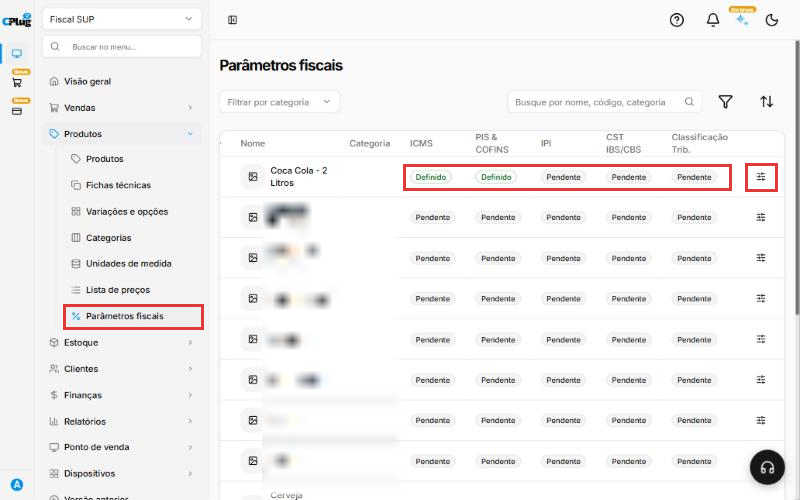
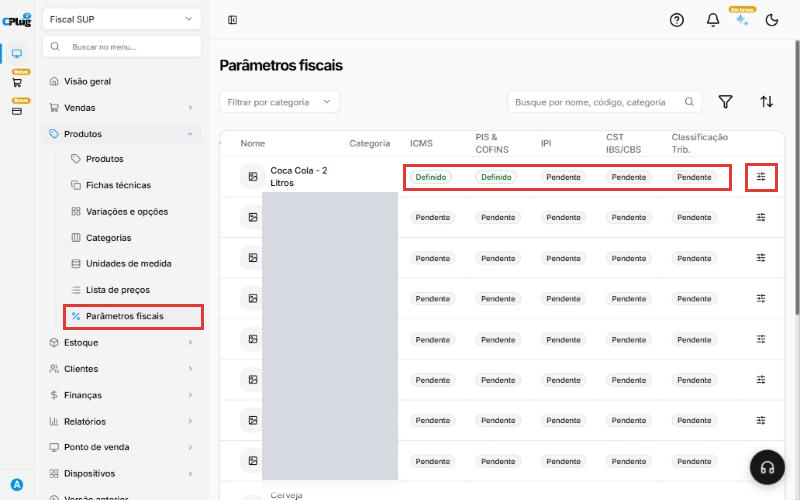
Manual 03.08: conceito da nota fiscal, grupos, CFOP da NFC-e, CEST e boas práticas; tarja sólida no print da lista

Changed region(s): [[0.3125, 0.36, 0.5, 0.96]]

diff --git a/docs/produtos/parametros-fiscais.md b/docs/produtos/parametros-fiscais.md
@@ -1,37 +1,71 @@
 ---
 title: Como configurar os dados fiscais de um produto
-description: Onde preencher NCM, origem, CEST, ICMS, PIS/COFINS e CFOP de cada produto para a nota fiscal sair sem erro.
+description: Entenda como a nota fiscal usa os dados do produto e veja onde preencher NCM, origem, CEST, ICMS, PIS/COFINS e CFOP para a nota sair sem erro.
 codigo: "03.08"
 modulo: Produtos
 tela: /dashboard/tax-settings
-atualizado: 2026-10-30
+atualizado: 2026-10-31
 ---
 
 # Como configurar os dados fiscais de um produto
 
-<div class="cplug-meta" markdown>:material-clock-outline: 5 minutos por produto · :material-format-list-numbered: 6 passos · :material-calendar-check: Atualizado em 30/10/2026</div>
+<div class="cplug-meta" markdown>:material-clock-outline: 15 minutos (depois, 2 minutos por produto) · :material-format-list-numbered: 6 passos · :material-calendar-check: Atualizado em 31/10/2026</div>
 
 Todo produto vendido com **nota fiscal** (o cupom do caixa, NFC-e, ou a NF-e) precisa dos dados fiscais preenchidos. Sem eles, o produto até aparece no caixa, mas a nota é **recusada pela Sefaz** ou nem chega a ser emitida.
+
+Esta é uma das principais causas de nota recusada. Vale a pena entender o conceito antes de preencher.
 
 !!! warning "Quem define os códigos fiscais é o seu contador"
     Este manual mostra **onde** e **como** preencher. **Quais** códigos usar (NCM, CFOP, situação do ICMS, PIS/COFINS) depende do produto, do estado e do regime da sua empresa, e quem decide é o contador.
 
     Antes de começar, peça ao contador uma lista com, para cada produto: **NCM**, **CEST** (se tiver), **Origem**, **ICMS**, **PIS/COFINS** e **CFOP**.
 
-## O que é cada campo
+## Entenda o conceito
+
+Quando você vende com nota, o sistema **monta a nota fiscal** juntando três fontes de informação:
+
+1. **Os dados da sua empresa:** CNPJ, endereço e regime tributário (Simples Nacional ou regime normal).
+2. **Os dados do produto:** o que ele é (NCM), de onde vem (Origem) e se tem substituição tributária (CEST). Ficam em **Informações fiscais**.
+3. **As regras de imposto:** como o ICMS, o PIS/COFINS e o IPI aparecem na nota, e o tipo de operação (CFOP). Ficam em **Configurações fiscais**.
+
+A Sefaz confere tudo isso. Se um código estiver faltando ou não combinar com o outro, a nota é recusada.
+
+### O que é um grupo fiscal
+
+O ICMS, o PIS/COFINS e o IPI não são preenchidos produto por produto. Você cria um **grupo fiscal**, que guarda a regra do imposto, e escolhe esse grupo em cada produto.
+
+Exemplo: o contador diz que quase todos os seus produtos usam o ICMS "102". Você cria **um** grupo chamado "Simples Nacional - 102" e escolhe esse grupo em todos esses produtos. Os refrigerantes, que têm substituição tributária, usam outro grupo, por exemplo "Bebidas com ST - 500".
+
+É como uma etiqueta: o grupo diz "este produto segue a regra X". Por isso, cuidado ao alterar um grupo que já está em uso: confirme com o contador antes.
+
+### O que é cada campo
 
 Os exemplos abaixo são só para você reconhecer os códigos. **Não copie sem confirmar com o contador.**
 
 | Campo | O que é, em palavras simples | Exemplo comum |
 | --- | --- | --- |
-| **NCM** | Código de 8 números que diz o que o produto é. É o mesmo em todo o Brasil. | Refrigerante: 2202.10.00 |
-| **CEST** | Código usado quando o produto tem substituição tributária (ST). Nem todo produto tem. | Depende do produto |
-| **Origem** | De onde vem a mercadoria. | 0 - Nacional |
-| **ICMS** | Como o ICMS aparece na nota. No Simples Nacional, os códigos têm 3 números (CSOSN); no regime normal, 2 números (CST). | 102 - Simples Nacional sem permissão de crédito |
-| **PIS & COFINS** | Como o PIS e a COFINS aparecem na nota. | Definido pelo contador |
-| **CFOP padrão** | O tipo de operação da venda. | 5102 - venda de mercadoria comprada de terceiros · 5405 - a mesma venda, com substituição tributária |
+| **NCM** | Código de 8 números que diz o que o produto é. É o mesmo em todo o Brasil. Define a tributação e a classificação do produto. | Refrigerante: 2202.10.00 |
+| **CEST** | Código que identifica produtos com substituição tributária (ST). Só abre depois de escolher o NCM, e a lista mostra os CESTs ligados àquele NCM. Nem todo produto tem. | Depende do produto |
+| **Origem** | De onde vem a mercadoria: nacional (códigos 0, 3, 4, 5 e 8) ou estrangeira (1, 2, 6 e 7). | 0 - Nacional |
+| **Peso líquido** e **Peso bruto** | O peso do produto, em quilos. | Preencha se o contador pedir |
+| **FCP** | Fundo de Combate à Pobreza: um adicional do ICMS cobrado em alguns estados e produtos. Há também o **FCP por ST** e o **FCP por ST retido**. | Em geral, 0,00 |
+| **ICMS** | Grupo que diz como o ICMS aparece na nota. No Simples Nacional, os códigos têm 3 números (CSOSN); no regime normal, 2 números (CST). | 102 - Simples Nacional sem permissão de crédito |
+| **Pis & Cofins** | Grupo que diz como o PIS e a COFINS aparecem na nota. | Definido pelo contador |
 | **IPI** | Imposto de indústria. A maioria do comércio e da alimentação não usa. | Em geral, fica vazio |
-| **CST do IBS/CBS** e **Classificação tributária** | Campos novos da reforma tributária. | Preencha quando o contador orientar |
+| **Cód. de Benef. Fiscal na UF** | Código de benefício fiscal do seu estado. Tem 8 caracteres: a sigla do estado e mais 6 (exemplo do sistema: SP123456). | Só se o contador informar |
+| **CFOP Padrão** | O tipo de operação da venda. | 5101 · 5102 · 5405 (veja abaixo) |
+| **CST do IBS/CBS** e **Cód. Classificação Tributária** | Campos novos da reforma tributária. A classificação só abre depois de escolher o CST, e as opções dependem dele. | Preencha quando o contador orientar |
+
+### Entendendo o CFOP de venda
+
+O CFOP diz **que tipo de venda** está acontecendo. Os três mais comuns no comércio e na alimentação:
+
+- **5101 - Venda de produção do estabelecimento:** o produto é **feito por você**, como o X-Burger preparado na cozinha.
+- **5102 - Venda de mercadoria adquirida de terceiros:** o produto é **comprado pronto e revendido**, como um chocolate.
+- **5405 - Venda de mercadoria com substituição tributária:** revenda de produto em que o imposto já foi recolhido antes, na compra, como acontece com muitos refrigerantes.
+
+!!! danger "Na NFC-e (cupom do caixa) só valem alguns CFOPs"
+    Segundo o próprio sistema, a NFC-e aceita apenas os CFOPs **5101, 5102, 5103, 5104, 5115, 5405, 5656, 5667 e 5933**. A lista do sistema também mostra o **5910** (bonificação, doação ou brinde) e o **5949** (outras saídas). Eles **não** servem para a NFC-e: use só com orientação do contador, em NF-e.
 
 Nos prints, o **quadrado vermelho** mostra onde você deve clicar ou digitar.
 
@@ -43,43 +77,50 @@ No menu do lado esquerdo, clique em **Produtos** e depois em **Parâmetros fisca
 
 A lista mostra todos os produtos e a situação de cada imposto: **Definido** (já configurado) ou **Pendente** (falta configurar). Todo produto com **Pendente** em ICMS, PIS & COFINS ou CFOP pode dar problema na nota.
 
+Para achar o que falta, clique no **funil** (Filtrar). Em **Grupos fiscais**, escolha **Pendentes** no ICMS, no Pis & Cofins ou no IPI e clique em **Aplicar filtros**. A lista mostra só os produtos que ainda precisam de atenção.
+
 ![Lista de parâmetros fiscais com as colunas Definido e Pendente e o ícone de ajustes destacados](../imagens/03.08/01-lista.png){ loading=lazy }
 
 ## Abra o produto
 
 No fim da linha do produto, clique no **ícone de ajustes** (o desenho de três tracinhos com bolinhas). Se não aparecer, role a tabela para a direita.
 
-Para encontrar um produto mais rápido, digite o nome na caixa de busca, no topo.
+Para encontrar um produto mais rápido, digite o nome na caixa de busca, no topo, ou escolha a categoria em **Filtrar por categoria**.
 
 ## Preencha as informações fiscais do produto
 
 Na parte **Informações fiscais**:
 
-- **NCM:** clique, digite o código ou parte do nome (ex.: "bebidas") e escolha a opção certa na lista.
+- **NCM:** clique, digite o código ou parte do nome (ex.: "bebidas" ou "2202") e escolha a opção certa na lista.
 - **Origem:** escolha de onde vem o produto. Na maioria dos casos, **0 - Nacional**.
-- **CEST:** preencha só se o contador informar.
+- **CEST:** preencha só se o contador informar. O campo fica cinza até você escolher o NCM; depois, mostra só os CESTs que combinam com aquele NCM.
 
 **Peso líquido**, **Peso bruto** e os campos de **FCP** só precisam ser preenchidos se o contador pedir.
 
 ![Informações fiscais com os campos NCM, Origem e CEST destacados](../imagens/03.08/02-informacoes.png){ loading=lazy }
 
+![NCM 22021000 escolhido e a lista do CEST aberta, com os códigos ligados a esse NCM, destacados](../imagens/03.08/08-cest-depois-do-ncm.png){ loading=lazy }
+
 ## Escolha os grupos fiscais da sua loja
 
-Role a tela até a parte **Configurações fiscais**. Ela tem uma seção com o **nome de cada loja (filial)**. Na seção da sua loja, escolha:
+Role a tela até a parte **Configurações fiscais** e escolha:
 
 - **ICMS:** o grupo de ICMS que o contador indicou.
 - **Pis & Cofins:** o grupo de PIS e COFINS.
-- **CFOP padrão:** o tipo de operação, por exemplo 5102 ou 5405.
+- **CFOP Padrão:** o tipo de operação, por exemplo 5101, 5102 ou 5405.
 - **IPI:** só se a sua empresa usar.
+- **Cód. de Benef. Fiscal na UF**, **CST do IBS/CBS** e **Cód. Classificação Tributária:** só com orientação do contador. A classificação fica cinza até você escolher o CST do IBS/CBS.
+
+Se a empresa tem **mais de uma loja (filial)**, a tela mostra uma seção com o **nome de cada loja**. Escolha os grupos na seção da sua loja.
 
 ![Seção da loja com ICMS, Pis & Cofins e CFOP padrão preenchidos e destacados](../imagens/03.08/03-grupos.png){ loading=lazy }
 
 !!! tip "Tem várias lojas com as mesmas regras?"
-    No topo de **Configurações fiscais** fica **Definir grupos fiscais para todas as unidades**. Ligue a chave ao lado do campo (por exemplo, ICMS) e escolha o grupo uma vez só: ele vale para todas as lojas. Desligue a chave quando uma loja precisar de um grupo diferente, por exemplo, uma loja em outro estado.
+    Com mais de uma loja, aparece no topo de **Configurações fiscais** o quadro **Definir grupos fiscais para todas as unidades**. Ligue a chave ao lado do campo (por exemplo, ICMS) e escolha o grupo uma vez só: ele vale para todas as lojas. Desligue a chave quando uma loja precisar de um grupo diferente, por exemplo, uma loja em outro estado.
 
 ## Se o grupo ainda não existe, crie
 
-Os **grupos** guardam as regras de um imposto. Você cria o grupo uma vez e usa em vários produtos.
+Se a sua empresa ainda não tem grupos, as listas de ICMS, Pis & Cofins e IPI aparecem **vazias**, com a mensagem "Nenhum resultado encontrado". É preciso criar os grupos uma primeira vez.
 
 1. Clique na caixa do imposto (por exemplo, **ICMS**). No topo da lista, clique em **+ Criar novo ICMS**.
 
@@ -99,7 +140,7 @@ O mesmo vale para **Pis & Cofins** e **IPI**: clique na caixa e use a opção **
 
 ## Clique em "Salvar"
 
-Depois de preencher tudo, clique no botão verde **Salvar**, no canto de baixo, à direita.
+Depois de preencher tudo, clique no botão verde **Salvar**, no canto de baixo, à direita. Para sair sem gravar, clique em **Descartar alterações**.
 
 </div>
 
@@ -110,7 +151,7 @@ Depois de preencher tudo, clique no botão verde **Salvar**, no canto de baixo, 
 
 Se vários produtos usam os mesmos códigos (por exemplo, todos os refrigerantes), não precisa abrir um por um:
 
-1. Na lista de **Parâmetros fiscais**, marque a caixinha do lado esquerdo de cada produto.
+1. Na lista de **Parâmetros fiscais**, marque a caixinha do lado esquerdo de cada produto. Dica: filtre pela categoria antes, e marque todos de uma vez.
 2. No rodapé, clique em **Edição em lote**.
 3. Em **Informações fiscais**, clique em **Adicionar campo**, escolha o campo (por exemplo, **NCM**) e o valor.
 4. Em **Configuração fiscal**, clique em **Adicionar campo**, escolha o grupo (por exemplo, **ICMS**) e a opção.
@@ -118,10 +159,28 @@ Se vários produtos usam os mesmos códigos (por exemplo, todos os refrigerantes
 
 ![Edição em lote com a lista de grupos fiscais aberta: CFOP, Cód. de Benef. Fiscal na UF, CST do IBS/CBS, ICMS, IPI e PIS & COFINS](../imagens/03.08/07-lote.png){ loading=lazy }
 
+!!! tip "Boas práticas"
+    - **Comece pela planilha do contador.** Peça uma lista com os dados fiscais de cada produto, ou de cada categoria. Com ela em mãos, o trabalho é só copiar.
+    - **Crie os grupos primeiro, depois os produtos.** Com os grupos prontos, preencher cada produto leva poucos segundos, e a **Edição em lote** resolve categorias inteiras.
+    - **Dê nomes que expliquem a regra.** "Simples Nacional - 102" diz tudo; "Grupo 1" não diz nada e confunde quem vem depois.
+    - **Produto novo já nasce com fiscal.** Sempre que cadastrar um produto, abra os parâmetros fiscais dele no mesmo dia. Assim ele nunca vai para o caixa com "Pendente".
+    - **Confira os pendentes toda semana.** Use o filtro **Pendentes** para ver o que ficou para trás.
+    - **Teste antes de vender.** Depois de configurar um tipo novo de produto, faça uma venda de teste com nota e confira se foi autorizada.
+    - **Mudou de regime ou de contador?** Peça uma revisão dos grupos fiscais. Uma regra antiga num grupo afeta todos os produtos que usam esse grupo.
+
 ## Deu algum problema?
 
 ??? question "A nota foi recusada por causa do NCM"
     O NCM precisa ter 8 números e existir na tabela oficial. Confira o código com o contador, corrija no produto e emita a nota de novo.
+
+??? question "A nota foi recusada por causa do CFOP"
+    Confira se o CFOP do produto é um dos aceitos na NFC-e: **5101, 5102, 5103, 5104, 5115, 5405, 5656, 5667 ou 5933**. O 5910 e o 5949, por exemplo, não são aceitos no cupom do caixa.
+
+??? question "O campo CEST está cinza e não abre"
+    Escolha primeiro o **NCM**. O CEST só abre depois, e mostra apenas os códigos ligados ao NCM escolhido. Se a lista vier vazia, o NCM não tem CEST.
+
+??? question "O campo Cód. Classificação Tributária está cinza"
+    Escolha primeiro o **CST do IBS/CBS**. A classificação depende dele.
 
 ??? question "A lista de grupos (ICMS, Pis & Cofins) está vazia"
     Ainda não existe nenhum grupo para a sua loja. Crie o grupo pela opção **+ Criar novo**, no topo da lista, como no passo 5, com os dados que o contador passou.
@@ -137,4 +196,4 @@ Se vários produtos usam os mesmos códigos (por exemplo, todos os refrigerantes
 
 **Relacionados:** [Como cadastrar um produto](cadastrar-produto.md) · [Como cadastrar um cliente](../clientes/cadastrar-cliente.md)
 
-<span class="palavras-chave">fiscal tributação imposto ncm cest cfop cst csosn icms pis cofins ipi origem nota fiscal nfc-e nf-e rejeição recusada sefaz parâmetros fiscais grupo fiscal ibs cbs reforma tributária substituição tributária st</span>
+<span class="palavras-chave">fiscal tributação imposto ncm cest cfop cst csosn icms pis cofins ipi origem nota fiscal nfc-e nf-e rejeição recusada sefaz parâmetros fiscais grupo fiscal ibs cbs reforma tributária substituição tributária st fcp fundo de combate à pobreza benefício fiscal classificação tributária 5101 5102 5405 pendente definido edição em lote</span>
